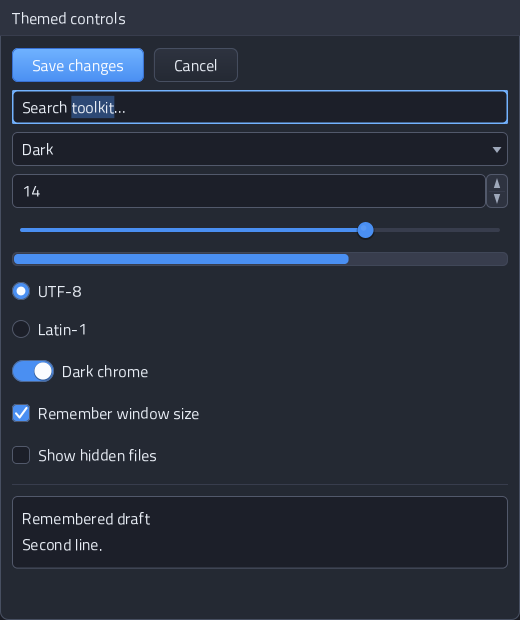
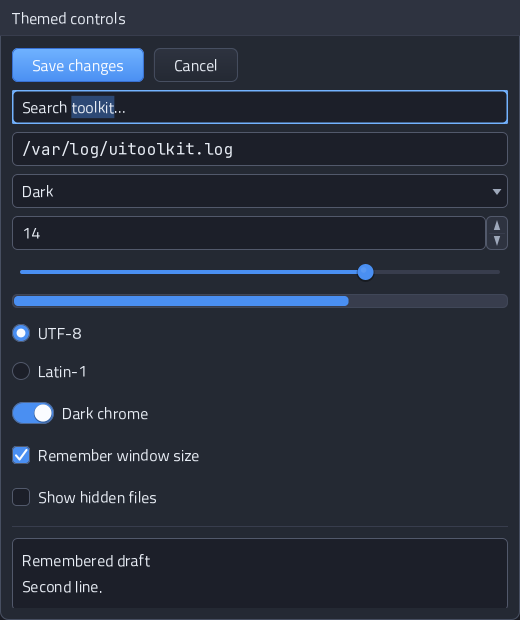
feat: lock LookAndFeel UI/mono roles to Titillium and JetBrains
Classic always stamps Titillium Web (UI) and JetBrains Mono (code,
Inspector, logs, mono fields). Metrics cannot select mononoki.
Add FontRole helpers, NewMonoTextField/TextArea, and a fonts.png
screenshot that shows both faces.

diff --git a/examples/gallery/main.go b/examples/gallery/main.go
@@ -629,6 +629,9 @@ func writeScreenshots(dir string) error {
 	if err := writeFilesShot(filepath.Join(dir, "files.png")); err != nil {
 		return err
 	}
+	if err := writeFontsShot(filepath.Join(dir, "fonts.png")); err != nil {
+		return err
+	}
 	return verifyDistinctPNGs(dir, screenshotNames)
 }
 
@@ -638,7 +641,7 @@ var screenshotNames = []string{
 	"gallery-toolbar.png", "gallery-combo.png", "gallery-message.png",
 	"gallery-table.png", "gallery-file.png", "gallery-tooltip.png",
 	"gallery-textarea.png", "gallery-accordion.png",
-	"notes.png", "inspector.png", "files.png", "widgets.png",
+	"notes.png", "inspector.png", "files.png", "widgets.png", "fonts.png",
 }
 
 func selectGalleryTab(w *app.Window, i int) {
@@ -796,9 +799,11 @@ func writeWidgetsCloseup(path string) error {
 	spin := widgets.NewNumberField(0, 24, 14, 1, nil)
 	area := widgets.NewTextArea("Remembered draft\nSecond line.", "Notes", nil)
 	area.MinRows = 2
+	logField := widgets.NewMonoTextField("/var/log/uitoolkit.log", "log path", nil)
 	w.SetContent(widgets.NewPanel("Themed controls",
 		widgets.NewRow(primary, widgets.NewButton("Cancel", nil)).WithGap(10),
 		field,
+		logField,
 		combo,
 		spin,
 		widgets.NewSlider(0, 100, 72, nil),
@@ -889,6 +894,46 @@ func writeTextAreaShot(path string) error {
 	w.RequestFocus(area)
 	area.SetSelection(0, 21) // "Ship notes for v0.1.7"
 	area.SetCaretBlink(true)
+	a.PumpOnce()
+	if err := w.WritePNG(path); err != nil {
+		return err
+	}
+	fmt.Println("wrote", path)
+	w.Close()
+	return nil
+}
+
+func writeFontsShot(path string) error {
+	a := uitoolkit.New(uitoolkit.Options{Look: style.DarkLook(), Headless: true})
+	w, err := a.NewWindow(platform.WindowOptions{
+		Title: "Fonts", Width: 640, Height: 420, Headless: true,
+	})
+	if err != nil {
+		return err
+	}
+	uiField := widgets.NewTextField("Search toolkit…", "Titillium Web", nil)
+	monoField := widgets.NewMonoTextField("/work/projects/uitoolkit", "path", nil)
+	code := widgets.NewMonoTextArea(
+		"func main() {\n    fmt.Println(\"JetBrains Mono\")\n}\n",
+		"code",
+		nil,
+	)
+	code.MinRows = 4
+	code.Wrap = false
+	uiLbl := widgets.NewLabel("UI role  ·  Titillium Web")
+	monoLbl := widgets.NewLabel("Mono role  ·  JetBrains Mono")
+	monoLbl.Mono = true
+	w.SetContent(widgets.NewPanel("LookAndFeel typefaces",
+		uiLbl,
+		uiField,
+		widgets.NewSeparator(),
+		monoLbl,
+		monoField,
+		code,
+	))
+	a.PumpOnce()
+	w.RequestFocus(code)
+	code.SetSelection(0, 11) // "func main()"
 	a.PumpOnce()
 	if err := w.WritePNG(path); err != nil {
 		return err

diff --git a/style/font_render_test.go b/style/font_render_test.go
@@ -81,6 +81,32 @@ func TestDefaultFontsRender(t *testing.T) {
 	}
 }
 
+func TestLookAndFeelRoles(t *testing.T) {
+	if FamilyFor(RoleUI) != "Titillium Web" || FamilyFor(RoleMono) != "JetBrains Mono" {
+		t.Fatalf("locked families %q / %q", FamilyFor(RoleUI), FamilyFor(RoleMono))
+	}
+	m := DefaultMetrics()
+	m.FontFamily = "mononoki"
+	m.MonoFamily = "mononoki"
+	look := NewClassic("dark", Dark(), m)
+	if look.Font().Family != FamilyUI {
+		t.Fatalf("UI role leaked %q (mononoki is not default)", look.Font().Family)
+	}
+	if look.MonoFont().Family != FamilyMono {
+		t.Fatalf("mono role leaked %q (mononoki is not default)", look.MonoFont().Family)
+	}
+	if look.Metrics().FontFamily != FamilyUI || look.Metrics().MonoFamily != FamilyMono {
+		t.Fatalf("metrics families %q / %q", look.Metrics().FontFamily, look.Metrics().MonoFamily)
+	}
+	if FontFor(look, RoleUI).Family != FamilyUI || FontFor(look, RoleMono).Family != FamilyMono {
+		t.Fatal("FontFor roles")
+	}
+	bold := BakeMonoBoldFont(16, paintengine2d.White)
+	if bold.Family != FamilyMono || bold.Weight != WeightBold || !bold.Outline {
+		t.Fatalf("mono bold %q w=%d outline=%v", bold.Family, bold.Weight, bold.Outline)
+	}
+}
+
 func TestBitmapFallbackIsNotDefault(t *testing.T) {
 	ui := BakeFont(16, paintengine2d.White)
 	bit := BakeBitmapFont(2, paintengine2d.White)

diff --git a/style/opentype.go b/style/opentype.go
@@ -23,11 +23,41 @@ const (
 const (
 	FamilyUI   = fonts.FamilyUI
 	FamilyMono = fonts.FamilyMono
-	// DefaultFontFamily is the LookAndFeel UI face.
+	// DefaultFontFamily is the LookAndFeel UI face (Titillium Web).
 	DefaultFontFamily = FamilyUI
-	// DefaultMonoFamily is the LookAndFeel mono / code face.
+	// DefaultMonoFamily is the LookAndFeel mono / code face (JetBrains Mono).
+	// mononoki is not a default role — optional later theme only.
 	DefaultMonoFamily = FamilyMono
 )
+
+// FontRole is a LookAndFeel typeface slot.
+type FontRole int
+
+const (
+	// RoleUI is labels, buttons, menus, and proportional fields (Titillium Web).
+	RoleUI FontRole = iota
+	// RoleMono is code, Inspector, logs, and monospace fields (JetBrains Mono).
+	RoleMono
+)
+
+// FamilyFor returns the locked family name for a role.
+func FamilyFor(role FontRole) string {
+	if role == RoleMono {
+		return FamilyMono
+	}
+	return FamilyUI
+}
+
+// FontFor returns Classic's UI or mono face. Other looks fall back to Font().
+func FontFor(l LookAndFeel, role FontRole) *Font {
+	if l == nil {
+		return nil
+	}
+	if role == RoleMono {
+		return l.MonoFont()
+	}
+	return l.Font()
+}
 
 // otFace is a parsed bundled TTF used to rasterize glyphs into a white atlas.
 type otFace struct {

diff --git a/export.go b/export.go
@@ -69,6 +69,9 @@ func NewSlider(min, max, value float32, on func(float32)) *widgets.Slider {
 func NewTextField(text, placeholder string, on func(string)) *widgets.TextField {
 	return widgets.NewTextField(text, placeholder, on)
 }
+func NewMonoTextField(text, placeholder string, on func(string)) *widgets.TextField {
+	return widgets.NewMonoTextField(text, placeholder, on)
+}
 func NewScrollView(child widget.Component) *widgets.ScrollView {
 	return widgets.NewScrollView(child)
 }
@@ -161,6 +164,21 @@ func NewTip(text string, child widget.Component) *widgets.TipWrap {
 func NewTextArea(text, placeholder string, on func(string)) *widgets.TextArea {
 	return widgets.NewTextArea(text, placeholder, on)
 }
+func NewMonoTextArea(text, placeholder string, on func(string)) *widgets.TextArea {
+	return widgets.NewMonoTextArea(text, placeholder, on)
+}
+
+const (
+	FamilyUI   = style.FamilyUI
+	FamilyMono = style.FamilyMono
+)
+
+type FontRole = style.FontRole
+
+const (
+	RoleUI   = style.RoleUI
+	RoleMono = style.RoleMono
+)
 func NewSwitch(text string, on bool, change func(bool)) *widgets.Switch {
 	return widgets.NewSwitch(text, on, change)
 }

diff --git a/style/font.go b/style/font.go
@@ -157,9 +157,14 @@ func BakeTitleFont(size float32, col paintengine2d.Color) *Font {
 	return BakeFamily(FamilyUI, WeightBold, size, col)
 }
 
-// BakeMonoFont is JetBrains Mono Regular at size.
+// BakeMonoFont is JetBrains Mono Regular at size (LookAndFeel mono role).
 func BakeMonoFont(size float32, col paintengine2d.Color) *Font {
 	return BakeFamily(FamilyMono, WeightRegular, size, col)
+}
+
+// BakeMonoBoldFont is JetBrains Mono Bold at size.
+func BakeMonoBoldFont(size float32, col paintengine2d.Color) *Font {
+	return BakeFamily(FamilyMono, WeightBold, size, col)
 }
 
 // BakeBitmapFont is the legacy 5×7 nearest-neighbor atlas. Default UI and

diff --git a/widgets/controls_test.go b/widgets/controls_test.go
@@ -61,6 +61,17 @@ func TestTextFieldEdit(t *testing.T) {
 	}
 }
 
+func TestMonoFieldConstructors(t *testing.T) {
+	tf := NewMonoTextField("/tmp/log", "path", nil)
+	if !tf.Mono {
+		t.Fatal("NewMonoTextField must set Mono (JetBrains Mono role)")
+	}
+	ta := NewMonoTextArea("fn()", "code", nil)
+	if !ta.Mono {
+		t.Fatal("NewMonoTextArea must set Mono (JetBrains Mono role)")
+	}
+}
+
 func TestButtonClick(t *testing.T) {
 	n := 0
 	b := NewButton("Go", func() { n++ })

diff --git a/widgets/textfield.go b/widgets/textfield.go
@@ -37,6 +37,14 @@ func NewTextField(text, placeholder string, on func(string)) *TextField {
 	return t
 }
 
+// NewMonoTextField is a single-line editor in the LookAndFeel mono role
+// (JetBrains Mono). Use for paths, logs, and code-ish values.
+func NewMonoTextField(text, placeholder string, on func(string)) *TextField {
+	t := NewTextField(text, placeholder, on)
+	t.Mono = true
+	return t
+}
+
 func (t *TextField) SetText(s string) {
 	if t.Text == s {
 		return

diff --git a/fonts/embed.go b/fonts/embed.go
@@ -1,7 +1,9 @@
 // Package fonts embeds the OFL UI typefaces shipped with uitoolkit.
 //
-//	Titillium Web  — default UI (labels, buttons, menus, fields)
-//	JetBrains Mono — mono / code (Inspector, file preview)
+//	Titillium Web  — LookAndFeel UI role (labels, buttons, menus, fields)
+//	JetBrains Mono — LookAndFeel mono role (code, Inspector, logs, mono fields)
+//
+// mononoki is not bundled and is not a default role.
 package fonts
 
 import (

diff --git a/widgets/textarea.go b/widgets/textarea.go
@@ -42,6 +42,14 @@ func NewTextArea(text, placeholder string, on func(string)) *TextArea {
 	return t
 }
 
+// NewMonoTextArea is a multi-line editor in the LookAndFeel mono role
+// (JetBrains Mono). Use for code, Inspector dumps, and logs.
+func NewMonoTextArea(text, placeholder string, on func(string)) *TextArea {
+	t := NewTextArea(text, placeholder, on)
+	t.Mono = true
+	return t
+}
+
 func (t *TextArea) SetText(s string) {
 	if t.Text == s {
 		return

diff --git a/internal/demo/inspector.go b/internal/demo/inspector.go
@@ -166,12 +166,11 @@ func InspectorApp(win *app.Window) widget.Component {
 		widgets.NewSpacerSize(0, 8),
 	).WithGap(10).WithPad(8))
 
-	notes := widgets.NewTextArea(
+	notes := widgets.NewMonoTextArea(
 		"// inspector — JetBrains Mono\noverride wrap = true\nfont.size = 16\n",
 		"Notes",
 		func(string) { mark("Notes edited") },
 	)
-	notes.Mono = true
 	notes.MinRows = 5
 	editorBody := widgets.NewColumn(
 		table,

diff --git a/style/look.go b/style/look.go
@@ -19,6 +19,10 @@ func NewClassic(name string, p Palette, m Metrics) *Classic {
 	if m.FontSize < 8 {
 		m = DefaultMetrics()
 	}
+	// Lock-in: Classic always ships Titillium Web + JetBrains Mono.
+	// Metrics.FontFamily cannot select mononoki (or any other face).
+	m.FontFamily = DefaultFontFamily
+	m.MonoFamily = DefaultMonoFamily
 	return &Classic{
 		palette: p,
 		metrics: m,

diff --git a/README.md b/README.md
@@ -109,6 +109,13 @@ paintengine2d with Titillium Web (and JetBrains Mono in code views).
 
 ![Files](docs/screenshots/files.png)
 
+### Font roles — Titillium Web + JetBrains Mono
+
+![Font roles](docs/screenshots/fonts.png)
+
+LookAndFeel locks **UI → Titillium Web** and **Mono → JetBrains Mono**
+(OFL, embedded). mononoki is not the default mono face.
+
 Regenerate:
 
 ```bash
@@ -229,7 +236,7 @@ dismiss order, textarea newline/wrap/nav, switch toggle (including
 disabled), accordion exclusive expand and focus yield, expander
 relayout, separator and spacer measure, IME preedit/commit on text
 widgets, and an offscreen paint that produces real pixels.
-`go test ./examples/gallery` regenerates the eighteen PNGs and fails if
+`go test ./examples/gallery` regenerates the nineteen PNGs and fails if
 any two share a blob.
 
 Keyboard map: [docs/keyboard.md](docs/keyboard.md). **Esc** closes
